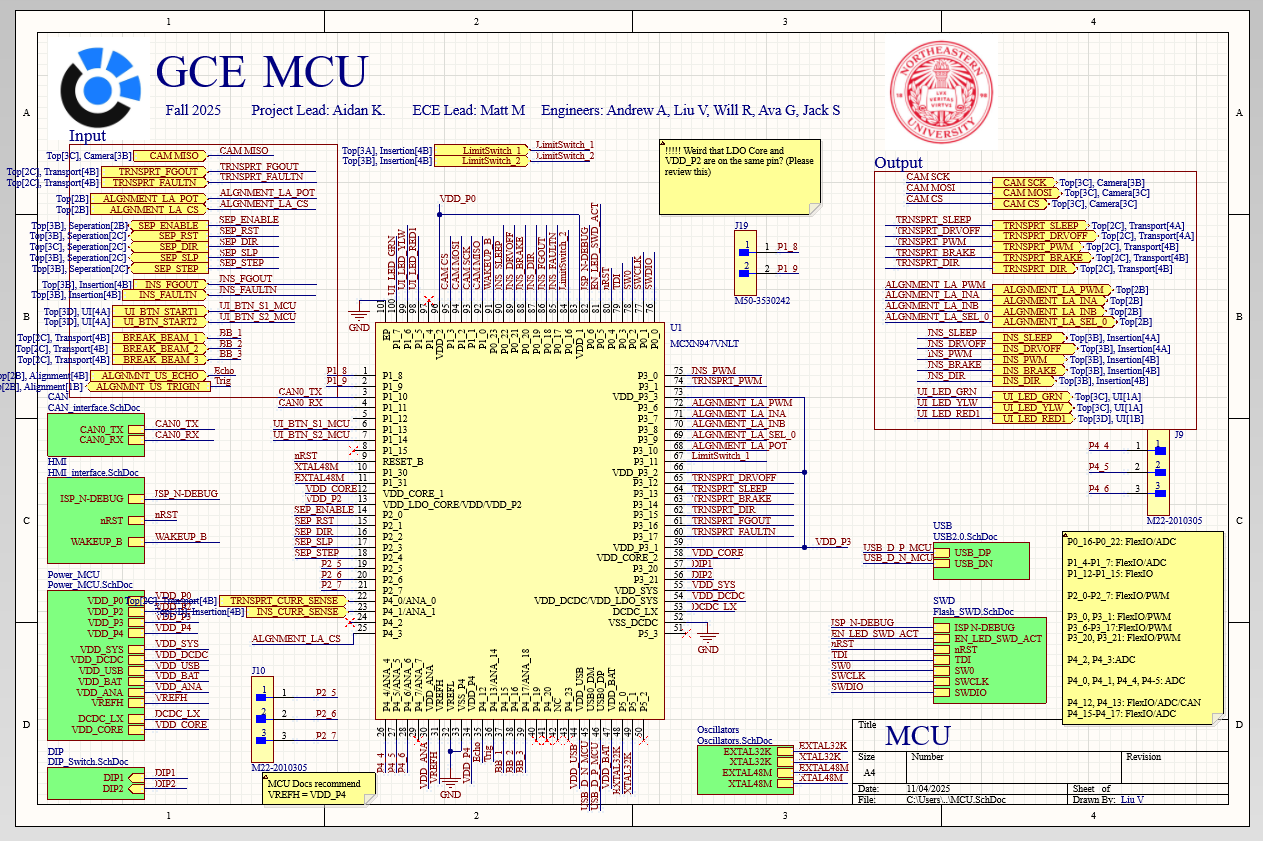
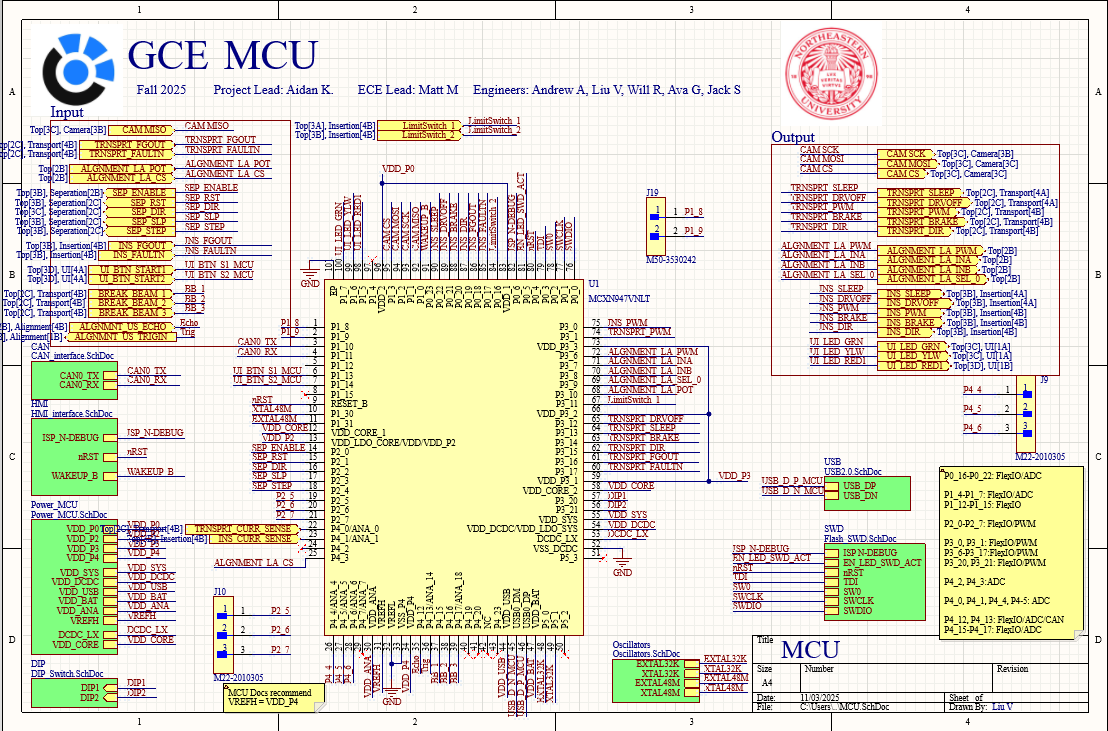
Added schematic grid with modal and updated picture for MCU

diff --git a/src/projects/GCE.jsx b/src/projects/GCE.jsx
@@ -1,36 +1,77 @@
+import { useState } from "react"
 import './projects.css'
 import PCBViewer from '../components/PCBViewer'
 
 export default function GCE() {
-    return (
-        <main>
-            <h1 className='title'>Autonomous Air Filter Pleat Separation</h1>
-            <div class='columns'>
-                <img src="/img/imgGCE/GCELogo.png" style={{ height: "150px", width: "auto" }}/>
+  const [selectedImage, setSelectedImage] = useState(null)
+
+  return (
+    <main>
+        <h1 className='title'>Autonomous Air Filter</h1>
+
+        <div className="columns">
+            <img src="/img/imgGCE/GCELogo.png" style={{ height: "150px", width: "auto" }} />
+        </div>
+
+        <h2 className='heading'>Problem Statement</h2>
+        <p>
+            The manual insertion of separators between pleats in GCE’s air filters currently takes 50–70 seconds per unit, creating a bottleneck in production.
+            Labor shortages have made this process increasingly difficult to scale, limiting the company’s ability to meet rising demand. <br/>
+            GCE is seeking an electromechanical solution to perform this task more quickly and consistently.<br/><br/>
+            The objectives are to:
+
+            <div className='columns'>
+                <ul>
+                    <li>Reduce assembly time</li>
+                    <li>Enable continuous, high-volume production</li>
+                </ul>
             </div>
-            <h2 className='heading'>Problem Statement</h2>
+
+        </p>
+
+        <h2 className="heading">Skills Learned</h2>
+        <p>Hardware: PCB Design, BLDC, Hall Sensors, PWM</p>
+        <p>Software: Altium</p>
+
+        {/* 3D Render */}
+        <h2>Main MCU PCB</h2>
+        <PCBViewer />
+
+        {/* Schematic Section */}
+        <section className="schematic-section">
+            <h2>Schematic Highlights</h2>
             <p>
-                The manual insertion of separators between pleats in GCE’s air filters currently takes 50–70 seconds per unit, creating a bottleneck in production.
-                Labor shortages have made this process increasingly difficult to scale, limiting the company’s ability to meet rising demand. <br/>
-                GCE is seeking an electromechanical solution to perform this task more quickly and consistently.<br/><br/>
-                The objectives are to:
-
-                <div className='columns'>
-                    <ul>
-                        <li>Reduce assembly time</li>
-                        <li>Enable continuous, high-volume production</li>
-                    </ul>
-                </div>
-
+            Below are key parts of my schematic highlighting power regulation,
+            the microcontroller, and the CAN interface.
             </p>
-            <h2 className='heading'>Skills Learned</h2>
-            <p>Hardware: PCB Design, BLDC, Hall Sensors, PWM </p>
-            <p>Software: Altium</p>
 
-            <h2>3D PCB Render</h2>
-            
-            <PCBViewer/>
+            <div className="schematic-grid">
+            {[
+                { src: "/img/imgGCE/MainPCBPower.png", label: "Power regulation"},
+                { src: "/img/imgGCE/MainPCBMCU.png", label: "32-bit ARM Cortex-M33 MCU" },
+                { src: "/img/imgGCE/MainPCBCAN.png", label: "CAN" },
+            ].map((item, idx) => (
+                <div
+                key={idx}
+                className="schematic-card"
+                onClick={() => setSelectedImage(item.src)}
+                >
+                <img src={item.src} alt={item.label} />
+                <p>{item.label}</p>
+                </div>
+            ))}
+            </div>
+        </section>
 
-        </main>
-    )
+        {/* Opens larger picture when selected */}
+        {selectedImage && (
+            <div className="modal-overlay" onClick={() => setSelectedImage(null)}>
+            <div className="modal-content" onClick={(e) => e.stopPropagation()}>
+                <img src={selectedImage} alt="Schematic Zoom" />
+                <button className="close-btn" onClick={() => setSelectedImage(null)}>×</button>
+            </div>
+            </div>
+        )}
+    </main>
+  )
 }

diff --git a/src/projects/projects.css b/src/projects/projects.css
@@ -34,3 +34,98 @@ p {
 section {
     padding-top: 10px;
 }
+
+/* --- Schematic Grid --- */
+.schematic-section {
+  margin-top: 3rem;
+  text-align: center;
+}
+
+.schematic-grid {
+  display: flex;
+  flex-wrap: wrap;
+  justify-content: center;
+  gap: 1.5rem;
+  margin-top: 1rem;
+}
+
+.schematic-card {
+  background: #f7f9fb;
+  border-radius: 12px;
+  padding: 1rem;
+  width: 280px;
+  box-shadow: 0 2px 8px rgba(0, 0, 0, 0.05);
+  transition: transform 0.2s ease, box-shadow 0.2s ease;
+  cursor: pointer;
+}
+
+.schematic-card:hover {
+  transform: translateY(-5px);
+  box-shadow: 0 4px 12px rgba(0, 0, 0, 0.1);
+}
+
+.schematic-card img {
+  width: 100%;
+  border-radius: 8px;
+  margin-bottom: 0.5rem;
+}
+
+/* --- Modal Overlay --- */
+.modal-overlay {
+  position: fixed;
+  top: 0;
+  left: 0;
+  height: 100vh;
+  width: 100vw;
+  background: rgba(0, 0, 0, 0.6);
+  display: flex;
+  justify-content: center;
+  align-items: center;
+  z-index: 999;
+  animation: fadeIn 0.3s ease;
+}
+
+.modal-content {
+  position: relative;
+  background: white;
+  padding: 1rem;
+  border-radius: 12px;
+  max-width: 90%;
+  max-height: 90%;
+  box-shadow: 0 8px 24px rgba(0, 0, 0, 0.2);
+  animation: scaleIn 0.25s ease;
+}
+
+.modal-content img {
+  max-width: 100%;
+  max-height: 80vh;
+  display: block;
+  border-radius: 8px;
+}
+
+.close-btn {
+  position: absolute;
+  top: 0.5rem;
+  right: 0.8rem;
+  background: none;
+  border: none;
+  font-size: 1.8rem;
+  color: #333;
+  cursor: pointer;
+  transition: color 0.2s ease;
+}
+
+.close-btn:hover {
+  color: #0077ff;
+}
+
+/* --- Animationsfor modal --- */
+@keyframes fadeIn {
+  from { opacity: 0; }
+  to { opacity: 1; }
+}
+
+@keyframes scaleIn {
+  from { transform: scale(0.95); opacity: 0; }
+  to { transform: scale(1); opacity: 1; }
+}
